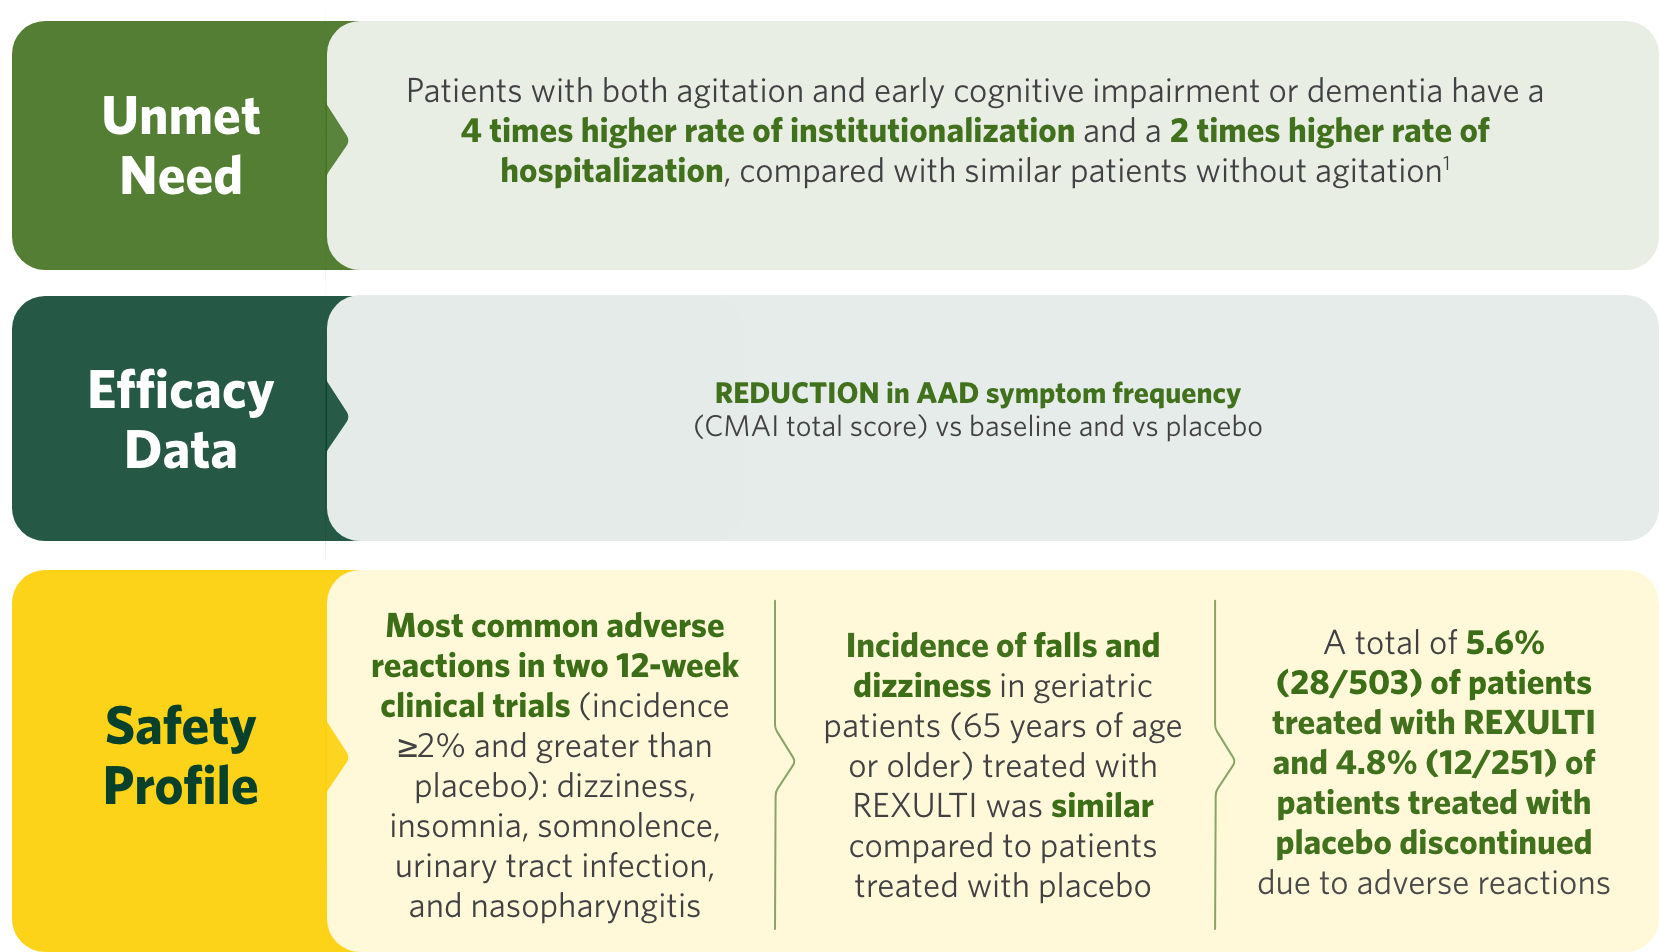
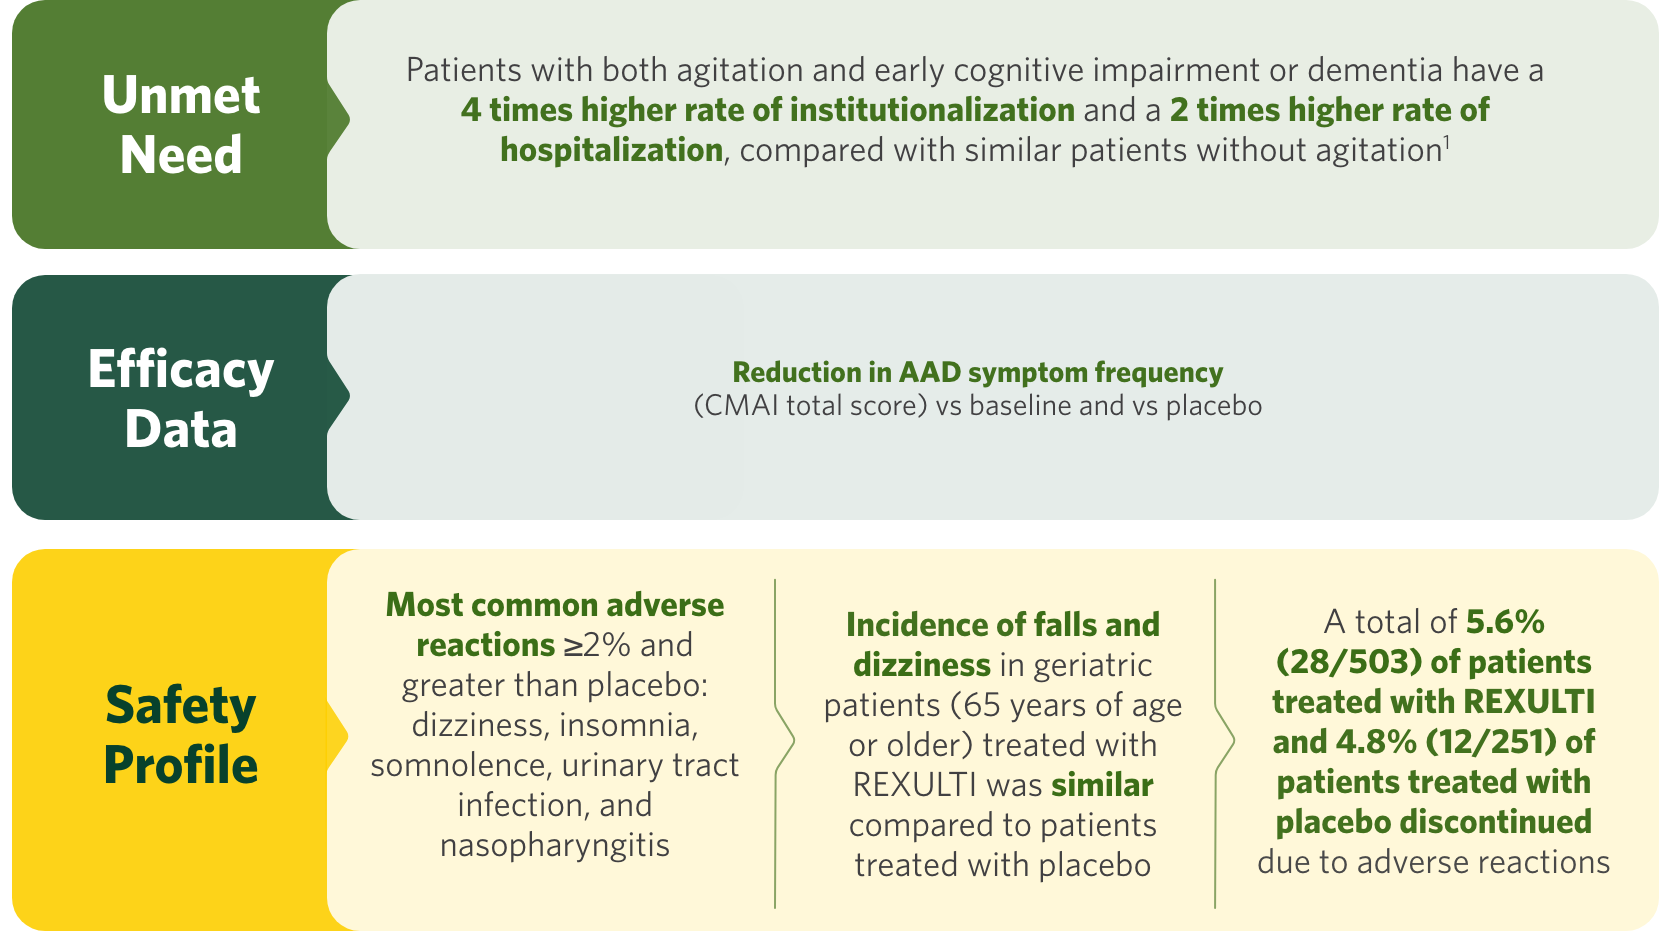
DF-34814 | R.1.0_Executive_summary fixes

diff --git a/projects/veeva-clm/src/Components/05-pages/R.1.0_Executive_summary/R.1.0_Executive_summary.tsx b/projects/veeva-clm/src/Components/05-pages/R.1.0_Executive_summary/R.1.0_Executive_summary.tsx
@@ -4,7 +4,7 @@ import RexultiLogo from '@/assets/rexulti-logo.png';
 import { Link } from '@/Components/03-organisms/Routing/Link/Link';
 import { Footer } from '@/Components/03-organisms/Footer/Footer';
 
-import PageImage from './img/Image2.png';
+import PageImage from './img/Image1.png';
 
 import styles from './R.1.0_Executive_summary.module.scss';
 
